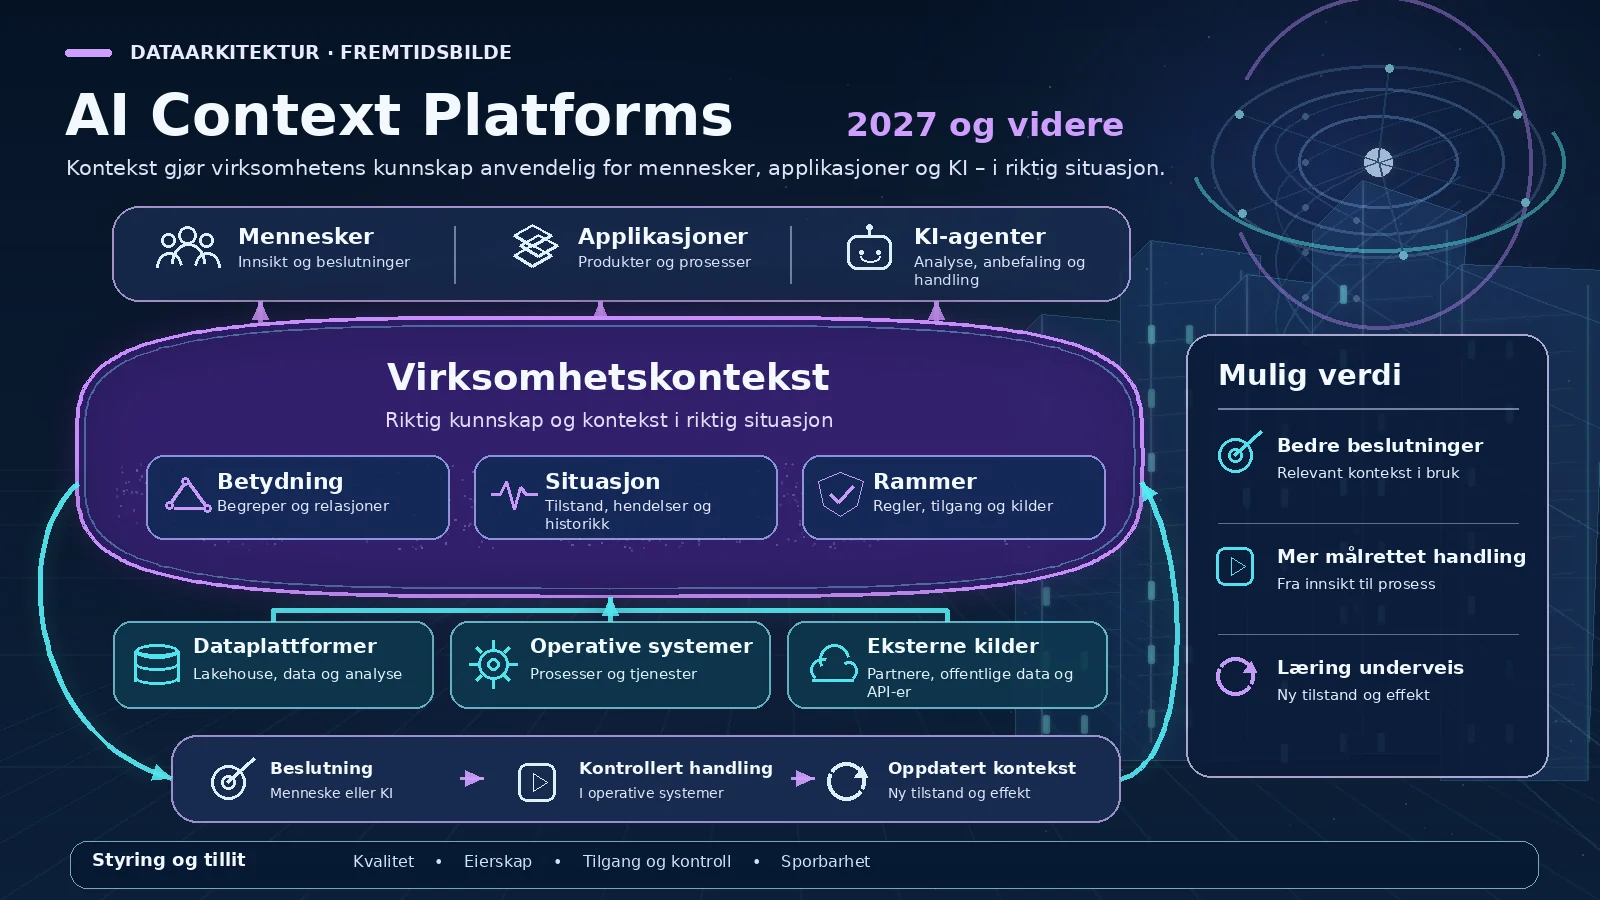
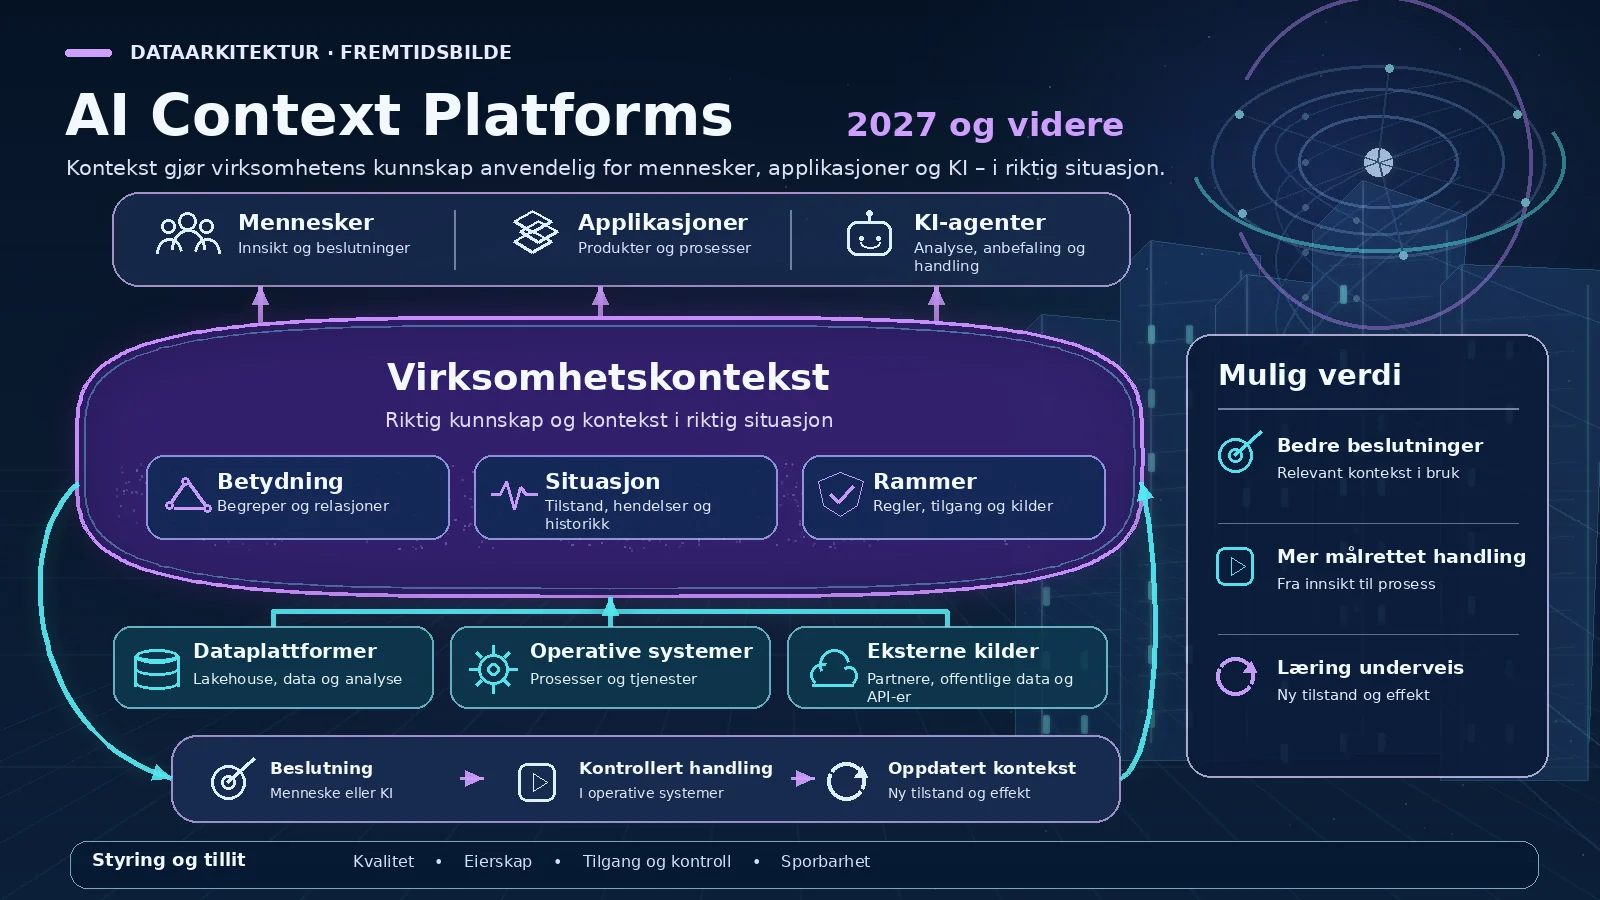
release 0.18.97: forbedret visuell benchmark

diff --git a/docs/index.html b/docs/index.html
@@ -6,17 +6,17 @@
   <meta name="color-scheme" content="light" />
   <meta name="description" content="Marked, salgsinnganger og praktisk kundedialog for fagområdet Innsikt." />
   <title>Innsikt · Marked og salg</title>
-  <link rel="stylesheet" href="./assets/site.css?v=0.18.96" />
-  <link rel="stylesheet" href="./assets/slide-visuals.css?v=0.18.96" />
-  <link rel="stylesheet" href="./assets/slide-story-scenes.css?v=0.18.96" />
-  <link rel="stylesheet" href="./assets/architecture-visuals.css?v=0.18.96" />
-  <link rel="stylesheet" href="./assets/vendor-architectures.css?v=0.18.96" />
-  <link rel="stylesheet" href="./assets/architecture-explorer.css?v=0.18.96" />
-  <link rel="stylesheet" href="./assets/slide-editorial-system.css?v=0.18.96" />
-  <link rel="stylesheet" href="./assets/slide-visual-narratives.css?v=0.18.96" />
-  <link rel="stylesheet" href="./assets/scene-art.css?v=0.18.96" />
-  <link rel="stylesheet" href="./assets/context-native-svg.css?v=0.18.96" />
-  <link rel="stylesheet" href="./assets/presentation-illustrations.css?v=0.18.96" />
+  <link rel="stylesheet" href="./assets/site.css?v=0.18.97" />
+  <link rel="stylesheet" href="./assets/slide-visuals.css?v=0.18.97" />
+  <link rel="stylesheet" href="./assets/slide-story-scenes.css?v=0.18.97" />
+  <link rel="stylesheet" href="./assets/architecture-visuals.css?v=0.18.97" />
+  <link rel="stylesheet" href="./assets/vendor-architectures.css?v=0.18.97" />
+  <link rel="stylesheet" href="./assets/architecture-explorer.css?v=0.18.97" />
+  <link rel="stylesheet" href="./assets/slide-editorial-system.css?v=0.18.97" />
+  <link rel="stylesheet" href="./assets/slide-visual-narratives.css?v=0.18.97" />
+  <link rel="stylesheet" href="./assets/scene-art.css?v=0.18.97" />
+  <link rel="stylesheet" href="./assets/context-native-svg.css?v=0.18.97" />
+  <link rel="stylesheet" href="./assets/presentation-illustrations.css?v=0.18.97" />
   <link rel="icon" href="./assets/favicon.svg" type="image/svg+xml" />
   
 </head>
@@ -52,27 +52,27 @@
     </div>
   </div>
   <div id="overlay-root"></div>
-  <script src="./assets/content.js?v=0.18.96" defer></script>
-  <script src="./assets/learning.js?v=0.18.96" defer></script>
-  <script src="./assets/prompt-context.js?v=0.18.96" defer></script>
-  <script src="./assets/prompt-workload.js?v=0.18.96" defer></script>
-  <script src="./assets/prompts.js?v=0.18.96" defer></script>
-  <script src="./assets/horizon.js?v=0.18.96" defer></script>
-  <script src="./assets/glossary.js?v=0.18.96" defer></script>
-  <script src="./assets/presenter-export.js?v=0.18.96" defer></script>
-  <script src="./assets/slide-model.js?v=0.18.96" defer></script>
-  <script src="./assets/presentation-content.js?v=0.18.96" defer></script>
-  <script src="./assets/visual-assets.js?v=0.18.96" defer></script>
-  <script src="./assets/scene-art.js?v=0.18.96" defer></script>
-  <script src="./assets/slide-graph.js?v=0.18.96" defer></script>
-  <script src="./assets/presentation-illustrations.js?v=0.18.96" defer></script>
-  <script src="./assets/context-native-svg.js?v=0.18.96" defer></script>
-  <script src="./assets/vendor-architectures.js?v=0.18.96" defer></script>
-  <script src="./assets/architecture-visuals.js?v=0.18.96" defer></script>
-  <script src="./assets/architecture-explorer.js?v=0.18.96" defer></script>
-  <script src="./assets/slide-story-scenes.js?v=0.18.96" defer></script>
-  <script src="./assets/slide-visuals.js?v=0.18.96" defer></script>
-  <script src="./assets/dialogue.js?v=0.18.96" defer></script>
-  <script src="./assets/site.js?v=0.18.96" defer></script>
+  <script src="./assets/content.js?v=0.18.97" defer></script>
+  <script src="./assets/learning.js?v=0.18.97" defer></script>
+  <script src="./assets/prompt-context.js?v=0.18.97" defer></script>
+  <script src="./assets/prompt-workload.js?v=0.18.97" defer></script>
+  <script src="./assets/prompts.js?v=0.18.97" defer></script>
+  <script src="./assets/horizon.js?v=0.18.97" defer></script>
+  <script src="./assets/glossary.js?v=0.18.97" defer></script>
+  <script src="./assets/presenter-export.js?v=0.18.97" defer></script>
+  <script src="./assets/slide-model.js?v=0.18.97" defer></script>
+  <script src="./assets/presentation-content.js?v=0.18.97" defer></script>
+  <script src="./assets/visual-assets.js?v=0.18.97" defer></script>
+  <script src="./assets/scene-art.js?v=0.18.97" defer></script>
+  <script src="./assets/slide-graph.js?v=0.18.97" defer></script>
+  <script src="./assets/presentation-illustrations.js?v=0.18.97" defer></script>
+  <script src="./assets/context-native-svg.js?v=0.18.97" defer></script>
+  <script src="./assets/vendor-architectures.js?v=0.18.97" defer></script>
+  <script src="./assets/architecture-visuals.js?v=0.18.97" defer></script>
+  <script src="./assets/architecture-explorer.js?v=0.18.97" defer></script>
+  <script src="./assets/slide-story-scenes.js?v=0.18.97" defer></script>
+  <script src="./assets/slide-visuals.js?v=0.18.97" defer></script>
+  <script src="./assets/dialogue.js?v=0.18.97" defer></script>
+  <script src="./assets/site.js?v=0.18.97" defer></script>
 </body>
 </html>
